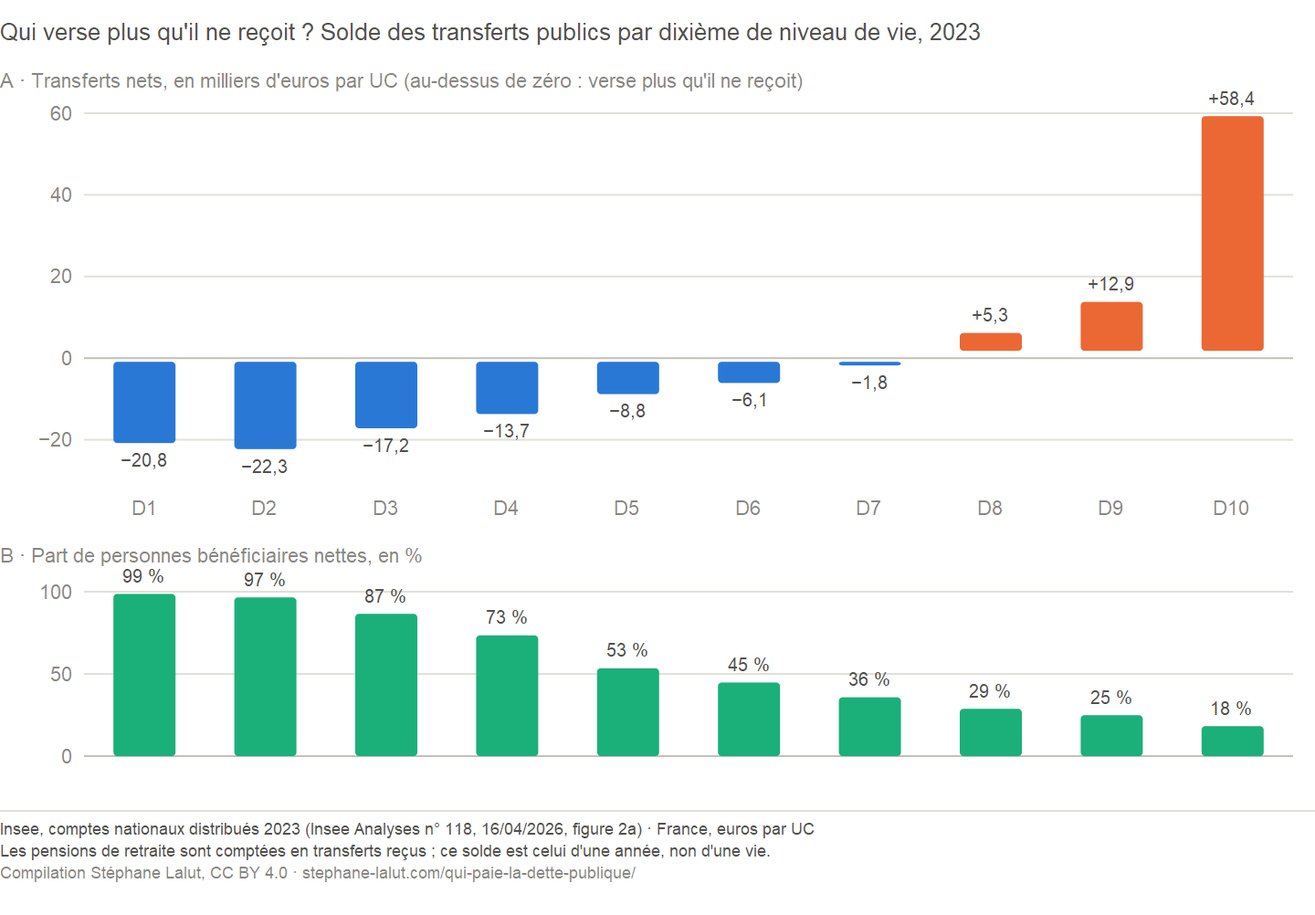
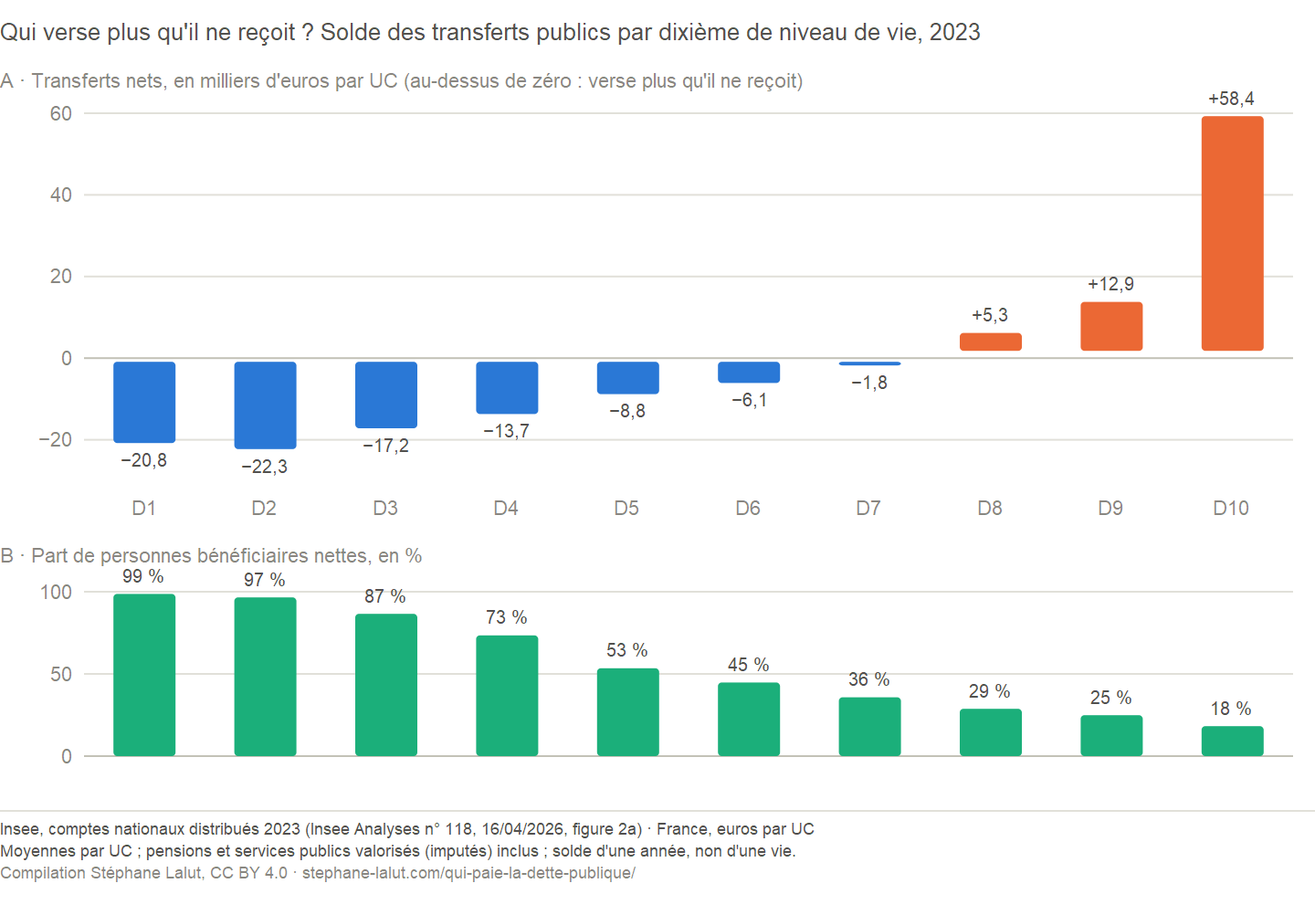
fix(qui-paie): moyennes et personnes distinguées, mécanismes non exhaustifs, figure par âge déplacée
Contre-expertise des figures du 27/09 (arbitrage PRO-20260927-QUIPAIE-FIGURES, option B,
corrections locales) :
- Solde net : « en moyenne par UC » dans le texte, l'image, la carte et le texte
  alternatif ; contraste tiré des données — bénéficiaires nets majoritaires dans les 5
  premiers dixièmes seulement, 36 % dans le D7 pourtant bénéficiaire en moyenne ;
  conventions dites (services imputés, pensions, revenu avant transferts).
  Garde au générateur : si le contraste disparaît des données, arrêt (vue mordre).
- « Quatre voies » -> quatre mécanismes, non exhaustifs ; nœud du schéma « Charge de la
  dette et sa répartition » ; inflation conditionnelle ; rendement réel distingué de
  l'avantage sur un autre placement ; définition du coût supporté ; croissance nominale
  et taux apparent ; « par UC ».
- Figure par âge déplacée parmi les constats actuels, avec ses conventions.

Build sans avertissement ; check-all --reseau à 0 ; figures regardées.

Changed region(s): [[0.0, 0.9281, 0.5938, 0.9591]]

diff --git a/scripts/generer_figures_qui_paie.py b/scripts/generer_figures_qui_paie.py
@@ -381,7 +381,7 @@ def svg_solde_net(d: dict) -> tuple[str, int]:
     y = bas2 + 30
     h = int(y + 13 + 12 * 3 + 8)
     desc = ("Deux panneaux. A : transferts nets par dixième de niveau de vie, en milliers d'euros "
-            "par unité de consommation ; les sept premiers dixièmes reçoivent plus qu'ils ne "
+            "par unité de consommation ; en moyenne, les sept premiers dixièmes reçoivent plus qu'ils ne "
             "versent, les trois derniers versent plus qu'ils ne reçoivent, le dernier de %s. "
             "B : part de personnes bénéficiaires nettes, de %s %% dans le premier dixième à "
             "%s %% dans le dernier." % (fr(net[9], 1), fr(part[0]), fr(part[9])))
@@ -389,7 +389,7 @@ def svg_solde_net(d: dict) -> tuple[str, int]:
     e += cartouche(y, [
         ("Insee, comptes nationaux distribués 2023 (Insee Analyses n° 118, 16/04/2026, figure 2a) "
          "· France, euros par UC", INK2),
-        ("Les pensions de retraite sont comptées en transferts reçus ; ce solde est celui d'une "
+        ("Moyennes par UC ; pensions et services publics valorisés (imputés) inclus ; solde d'une "
          "année, non d'une vie.", INK2),
         ("Compilation Stéphane Lalut, CC BY 4.0 · " + URL_PAGE, MUTED)])
     e.append("</svg>")
@@ -443,7 +443,7 @@ def svg_age(d: dict) -> tuple[str, int]:
     h = int(y + 13 + 12 * 3 + 8)
     desc = ("Barres par groupe d'âge du ménage, en 2023, en milliers d'euros par unité de "
             "consommation. Les transferts reçus passent de %s pour les 18-29 ans à %s pour les "
-            "65 ans ou plus, tandis que les prélèvements passent de %s à %s."
+            "ménages dont l'âge moyen des adultes atteint 65 ans ou plus, tandis que les prélèvements passent de %s à %s."
             % (fr(esp[0] + nat[0], 1), fr(esp[4] + nat[4], 1), fr(-prel[0], 1), fr(-prel[4], 1)))
     e = entete(h, "qp-age", "Prélèvements et transferts publics par âge du ménage, 2023", desc) + c
     e += cartouche(y, [
@@ -475,9 +475,9 @@ def svg_mecanismes() -> tuple[str, int]:
     c.append('<defs><marker id="qp-fl" viewBox="0 0 10 10" refX="9" refY="5" markerWidth="7" '
              'markerHeight="7" orient="auto"><path d="M0,0 L10,5 L0,10 z" fill="%s"/></marker>'
              '</defs>' % MUTED)
-    c += boite(1, 150, 200, 74, [("Service de la dette", 12, INK, True),
-                                 ("intérêts, et titres qui", 11, INK2, False),
-                                 ("arrivent à échéance", 11, INK2, False)], trait=C1)
+    c += boite(1, 150, 200, 74, [("Charge de la dette", 12, INK, True),
+                                 ("et sa répartition", 12, INK, True),
+                                 ("intérêts, échéances", 11, INK2, False)], trait=C1)
     canaux = [
         ("Prélèvements", "contribuables : impôts, cotisations"),
         ("Dépenses et prestations", "usagers, bénéficiaires : réduites, gelées, reportées"),
@@ -499,7 +499,7 @@ def svg_mecanismes() -> tuple[str, int]:
                tiret=True, fond="#f7f7f4")
     y = 392
     h = int(y + 13 + 12 * 3 + 8)
-    desc = ("Schéma sans quantités. Le service de la dette peut être assuré par quatre canaux, qui "
+    desc = ("Schéma sans quantités. Quatre mécanismes, non exhaustifs, peuvent modifier la charge de la dette et sa répartition, et "
             "se combinent : prélèvements (contribuables), dépenses et prestations (usagers, "
             "bénéficiaires), inflation (détenteurs de créances et de revenus mal indexés), "
             "restructuration, cas extrême (porteurs des titres). Le refinancement reporte "
@@ -540,6 +540,13 @@ def affichage(r: dict, d: dict) -> dict:
         fail("solde net : la bascule contributeur/bénéficiaire n'est pas unique (%s)" % net)
     if not part[0] > part[-1]:
         fail("la page dit que la part de bénéficiaires nets décroît avec le niveau de vie")
+    # Contraste moyenne / personnes (contre-expertise du 27/09) : un dixième peut être
+    # bénéficiaire net EN MOYENNE alors que la majorité de ses membres sont contributeurs
+    # nets. La page l'énonce ; il doit rester vrai dans les données, sinon arrêt.
+    majo = next((i for i, v in enumerate(part) if v <= 50), len(part))
+    if not majo < bascule:
+        fail("la page dit que la majorité de bénéficiaires nets s'arrête avant la bascule "
+             "du solde moyen (majorité jusqu'à D%d, bascule en D%d)" % (majo, bascule + 1))
     age = d["age"]
     if not (age["esp"][4] > age["esp"][0] and -age["prel"][4] < -age["prel"][0]):
         fail("la page dit que les 65 ans ou plus reçoivent plus et versent moins que les 18-29 ans")
@@ -550,6 +557,8 @@ def affichage(r: dict, d: dict) -> dict:
         "net_d10": fr(net[9]),
         "net_d1": fr(-net[0]),
         "benef_d1": fr(part[0]), "benef_d10": fr(part[9]),
+        "benef_majo_n": fr(majo),
+        "benef_dernier_moyen": "D%d" % bascule, "benef_dernier_moyen_pct": fr(part[bascule - 1]),
         "benef_ensemble": fr(d["part_benef"][-1]),
         "age_recu_65": fr(age["esp"][4] + age["nat"][4]),
         "age_prel_65": fr(-age["prel"][4]),
@@ -603,21 +612,21 @@ def main() -> int:
                        "spécifique de la dette."},
         {"id": "solde-net", "fichier": "qui-paie-solde-net",
          "titre": "Contributeurs nets et bénéficiaires nets par dixième, 2023",
-         "montre": "Les sept premiers dixièmes reçoivent plus qu'ils ne versent, les trois "
-                   "derniers l'inverse ; la part de bénéficiaires nets décroît avec le niveau de vie.",
+         "montre": "En moyenne par UC, les dixièmes modestes et médians reçoivent plus qu'ils ne versent, "
+                   "les plus aisés l'inverse ; mais dès le milieu de l'échelle, la majorité des personnes versent plus qu'elles ne reçoivent.",
          "source": "Insee, comptes nationaux distribués 2023 (Insee Analyses n° 118, figure 2a)",
-         "precaution": "Solde d'une année, non d'une vie ; les pensions de retraite y sont "
-                       "comptées en transferts reçus."},
+         "precaution": "Moyennes par UC ; pensions et services publics valorisés par imputation inclus ; "
+                       "solde d'une année, non d'une vie ; ne mesure pas l'effet propre de la dette."},
         {"id": "age", "fichier": "qui-paie-age",
          "titre": "Prélèvements et transferts publics par âge du ménage, 2023",
-         "montre": "La répartition par âge telle qu'elle est mesurée aujourd'hui : ce que chaque "
-                   "groupe verse et reçoit, retraites et services publics compris.",
+         "montre": "En 2023, selon ces conventions : ce que verse et reçoit chaque groupe, classé par "
+                   "âge moyen des adultes du ménage, retraites et services publics compris.",
          "source": "Insee, comptes nationaux distribués 2023 (Insee Analyses n° 118, figure 1e)",
-         "precaution": "Photographie d'une année : elle ne dit rien du solde d'une génération "
-                       "sur sa vie entière, ni des payeurs futurs."},
+         "precaution": "Photographie d'une année, non le bilan d'une génération ni des générations futures ; "
+                       "l'âge du ménage n'est pas le statut de retraite de ses membres."},
         {"id": "mecanismes", "fichier": "qui-paie-mecanismes",
          "titre": "Par quels canaux la charge peut-elle être répartie ?",
-         "montre": "Quatre canaux possibles, le refinancement qui reporte sans désigner de "
+         "montre": "Quatre mécanismes possibles, non exhaustifs, le refinancement qui reporte sans désigner de "
                    "perdant, et en regard ce que la dette a financé.",
          "source": "Synthèse de l'auteur, schéma non quantitatif",
          "precaution": "Aucun poids relatif ni effet causal n'est mesuré ici."},

diff --git a/content/qui-paie-la-dette-publique/_index.md b/content/qui-paie-la-dette-publique/_index.md
@@ -36,7 +36,7 @@ Cette page examine ces configurations une à une&nbsp;: ce qui les rend plausibl
 
 ## Quatre rôles à ne pas confondre
 
-Le débat mélange souvent quatre rôles. L'**emprunteur** est l'administration qui émet la dette — l'État d'abord, puis la sécurité sociale et les collectivités. Le **créancier** avance les fonds et reçoit des intérêts en retour. Le **bénéficiaire** profite de ce que l'emprunt a financé&nbsp;: une route, une école, un revenu de soutien pendant une crise. Celui qui **supporte le coût** est celui dont l'effort sert la dette&nbsp;: le contribuable qui paie un impôt supplémentaire, l'usager d'un service dont les moyens se resserrent, l'épargnant dont l'inflation érode le placement.
+Le débat mélange souvent quatre rôles. L'**emprunteur** est l'administration qui émet la dette — l'État d'abord, puis la sécurité sociale et les collectivités. Le **créancier** avance les fonds et reçoit des intérêts en retour. Le **bénéficiaire** profite de ce que l'emprunt a financé&nbsp;: une route, une école, un revenu de soutien pendant une crise. Celui qui **supporte un coût** subit, par rapport à l'alternative considérée, une perte de revenu, de patrimoine ou de services liée aux choix de financement ou d'ajustement&nbsp;: le contribuable qui paie un impôt supplémentaire, l'usager d'un service dont les moyens se resserrent, l'épargnant dont l'inflation érode le placement.
 
 Une même personne tient souvent plusieurs de ces rôles&nbsp;: elle paie l'impôt, se soigne à l'hôpital public et détient des titres de l'État par son assurance-vie. Les groupes examinés plus bas se recoupent donc&nbsp;; ils ne se partagent pas la dette comme les parts d'un gâteau.
 
@@ -55,48 +55,51 @@ Trois choses se mesurent&nbsp;: qui emprunte, qui détient les titres, et qui co
 {{< fig-actions id="redistribution" >}}
 {{< qp-tableau-redistribution >}}
 
-**Qui contribue, qui reçoit aujourd'hui.** Les comptes nationaux distribués de l'Insee répartissent, pour {{< qp-val "cd_annee" >}}, prélèvements et transferts publics entre les dixièmes de niveau de vie. Les prélèvements vont de {{< qp-val "d1_prel" >}}&nbsp;€ par unité de consommation pour les 10&nbsp;% les plus modestes à {{< qp-val "d10_prel" >}}&nbsp;€ pour les 10&nbsp;% les plus aisés, environ {{< qp-val "ratio_prel" >}}&nbsp;fois plus&nbsp;; les transferts reçus — prestations en espèces et services publics valorisés en euros — varient beaucoup moins, de {{< qp-val "recu_min" >}} à {{< qp-val "recu_max" >}}&nbsp;€. La même année, la puissance publique a versé plus qu'elle n'a prélevé&nbsp;: {{< qp-val "solde_uc" >}}&nbsp;€ par unité de consommation en moyenne, {{< qp-val "solde_mdeur" >}}&nbsp;milliards au total, financés par endettement. C'est un bénéfice présent financé à crédit, que l'Insee répartit par convention — moitié en moindres prélèvements, moitié en transferts supplémentaires. Ces comptes décrivent qui contribue et qui reçoit aujourd'hui&nbsp;; ils ne disent pas qui paiera demain la dette qui finance l'écart.
+**Qui contribue, qui reçoit aujourd'hui.** Les comptes nationaux distribués de l'Insee répartissent, pour {{< qp-val "cd_annee" >}}, prélèvements et transferts publics entre les dixièmes de niveau de vie. Les prélèvements vont de {{< qp-val "d1_prel" >}}&nbsp;€ par unité de consommation pour les 10&nbsp;% les plus modestes à {{< qp-val "d10_prel" >}}&nbsp;€ pour les 10&nbsp;% les plus aisés, environ {{< qp-val "ratio_prel" >}}&nbsp;fois plus&nbsp;; les transferts reçus — prestations en espèces et services publics valorisés en euros — varient beaucoup moins, de {{< qp-val "recu_min" >}} à {{< qp-val "recu_max" >}}&nbsp;€. La même année, la puissance publique a versé plus qu'elle n'a prélevé&nbsp;: {{< qp-val "solde_uc" >}}&nbsp;€ par unité de consommation en moyenne, {{< qp-val "solde_mdeur" >}}&nbsp;milliards au total sur le champ de ces comptes distribués, qui n'est pas celui du déficit public, financés par endettement. C'est un bénéfice présent financé à crédit. Pour calculer un niveau de vie «&nbsp;net de l'endettement&nbsp;», l'Insee le répartit par convention — moitié en moindres prélèvements, moitié en transferts supplémentaires&nbsp;; les figures ci-dessous présentent les transferts courants, avant ce retraitement. Ces comptes décrivent qui contribue et qui reçoit aujourd'hui&nbsp;; ils ne disent pas qui paiera demain la dette qui finance l'écart.
 
-{{< figure-svg fichier="qui-paie-solde-net" alt="Deux panneaux. En haut, le solde des transferts publics par dixième de niveau de vie : négatif pour les sept premiers dixièmes, positif pour les trois derniers, très fortement pour le dernier. En bas, la part de personnes bénéficiaires nettes, décroissante du premier au dernier dixième." >}}Insee, comptes nationaux distribués 2023 (figure&nbsp;2a). Deux unités, deux panneaux&nbsp;: euros par unité de consommation, puis part de personnes.{{< /figure-svg >}}
+{{< figure-svg fichier="qui-paie-solde-net" alt="Deux panneaux. En haut, le solde des transferts publics par dixième de niveau de vie : en moyenne par unité de consommation, négatif pour les sept premiers dixièmes, positif pour les trois derniers, très fortement pour le dernier. En bas, la part de personnes bénéficiaires nettes, décroissante du premier au dernier dixième." >}}Insee, comptes nationaux distribués 2023 (figure&nbsp;2a). Deux unités, deux panneaux&nbsp;: euros par unité de consommation, puis part de personnes.{{< /figure-svg >}}
 {{< fig-actions id="solde-net" >}}
 
-**Qui verse net, qui reçoit net.** Le solde bascule au dixième {{< qp-val "net_bascule" >}}&nbsp;: les {{< qp-val "net_benef_n" >}} premiers dixièmes reçoivent plus qu'ils ne versent — {{< qp-val "net_d1" >}}&nbsp;€ par unité de consommation pour le premier —, les trois derniers versent plus qu'ils ne reçoivent, et le dernier {{< qp-val "net_d10" >}}&nbsp;€ à lui seul. Rapporté aux personnes, {{< qp-val "benef_ensemble" >}}&nbsp;% sont bénéficiaires nettes cette année-là&nbsp;: {{< qp-val "benef_d1" >}}&nbsp;% dans le premier dixième, {{< qp-val "benef_d10" >}}&nbsp;% dans le dernier. Deux précautions tiennent toute la lecture&nbsp;: c'est le solde d'une **année**, non d'une vie — les pensions de retraite y sont comptées en transferts reçus, et non en revenu différé de cotisations passées —, et il décrit la redistribution dans son ensemble, pas l'effet propre de la dette.
+**Qui verse net, qui reçoit net.** En moyenne par unité de consommation (UC, l'unité qui rend comparables des ménages de tailles différentes), le solde bascule au dixième {{< qp-val "net_bascule" >}}&nbsp;: dans chacun des {{< qp-val "net_benef_n" >}} premiers dixièmes, les transferts reçus dépassent les prélèvements — de {{< qp-val "net_d1" >}}&nbsp;€ par UC dans le premier —, dans les trois derniers c'est l'inverse, et dans le dernier dixième le prélèvement net moyen atteint {{< qp-val "net_d10" >}}&nbsp;€ par UC.
 
-## Par quels canaux la charge se répartit
+Rapporté aux personnes, le tableau change. {{< qp-val "benef_ensemble" >}}&nbsp;% sont bénéficiaires nettes cette année-là, {{< qp-val "benef_d1" >}}&nbsp;% dans le premier dixième et {{< qp-val "benef_d10" >}}&nbsp;% dans le dernier. Mais les bénéficiaires nets ne sont majoritaires que dans les {{< qp-val "benef_majo_n" >}} premiers dixièmes&nbsp;: dans le dixième {{< qp-val "benef_dernier_moyen" >}}, bénéficiaire net en moyenne, ils ne sont plus que {{< qp-val "benef_dernier_moyen_pct" >}}&nbsp;%. **Un groupe peut recevoir plus qu'il ne verse en moyenne alors que la majorité de ses membres versent plus qu'ils ne reçoivent**&nbsp;: quelques soldes très positifs suffisent à porter la moyenne.
 
-Une dette se sert par quatre voies, qui se combinent&nbsp;:
-
-- **les prélèvements** — impôts et cotisations supplémentaires, ou baisses d'impôt auxquelles on renonce&nbsp;;
-- **les dépenses et les prestations** — ce qui est réduit, gelé ou reporté pour dégager la marge&nbsp;;
-- **l'inflation**, qui allège le poids réel de la dette et en reporte une partie sur les détenteurs de créances et de revenus mal indexés, selon leurs contrats&nbsp;;
-- **la restructuration**, cas extrême où la perte revient aux porteurs des titres.
-
-Le refinancement, lui, reporte une échéance&nbsp;; il ne désigne à lui seul aucun perdant. Et en face de ces coûts se trouve ce que la dette a financé&nbsp;: les bénéfices, présents et futurs, de la dépense publique entrent dans le bilan au même titre que la charge.
-
-{{< figure-svg fichier="qui-paie-mecanismes" alt="Schéma sans quantités : le service de la dette mène, par des flèches d'égale épaisseur, à quatre canaux possibles — prélèvements, dépenses et prestations, inflation, restructuration — ; le refinancement reporte l'échéance ; en regard, ce que la dette a financé." >}}Schéma de mécanismes possibles&nbsp;: aucun poids relatif ni effet causal n'y est mesuré.{{< /figure-svg >}}
-{{< fig-actions id="mecanismes" >}}
-
-## Les générations futures — ce dont elles héritent
-
-La dette convertit une dépense présente en engagements futurs, et ceux qui les honoreront n'ont pas voté l'emprunt. Mais ils héritent aussi de ce qu'il a financé — infrastructures, formation, recherche, patrimoine public — et d'une partie des titres eux-mêmes, que leurs parents détiennent directement ou par l'assurance-vie. Le transfert net dépend donc de l'usage&nbsp;: une dette qui finance une consommation courante sans contrepartie durable leur transmet surtout un coût&nbsp;; un investissement dont ils profiteront peut leur transmettre davantage qu'il ne coûte.
-
-L'encours ne suffit pas à trancher, et la dette nette ne le fait pas davantage&nbsp;: celle que publie l'INSEE ne déduit que certains actifs financiers — trésorerie, prêts, titres —, pas les routes, le capital humain ni l'environnement. Ce qui vaut quel que soit l'usage, c'est que la décision se prend sans ceux qui en porteront une part. L'objection «&nbsp;on se la doit à nous-mêmes&nbsp;» et sa réponse sont développées sur la page [La dette publique est-elle un fardeau pour les générations futures&nbsp;?](/dette-publique-generations-futures/)
-
+Plusieurs conventions encadrent cette lecture. C'est le solde d'une **année**, non d'une vie&nbsp;: les pensions de retraite y sont comptées comme prestations courantes. Les transferts comprennent des services publics — soins, éducation, services collectifs — valorisés en euros et répartis par imputation statistique, non un relevé des services utilisés par chacun&nbsp;; la part de bénéficiaires nets en dépend à la marge. Le revenu «&nbsp;avant transferts&nbsp;» est une étape de calcul, non le revenu qu'aurait chacun dans une économie sans impôts ni services publics. Et ce solde décrit la redistribution dans son ensemble, pas l'effet propre de la dette.
 
 {{< figure-svg fichier="qui-paie-age" alt="Barres par groupe d'âge du ménage, en 2023 : les transferts reçus augmentent fortement avec l'âge, et les prélèvements versés diminuent après 65 ans." >}}Insee, comptes nationaux distribués 2023 (figure&nbsp;1e). Groupes d'âge moyen des adultes du ménage.{{< /figure-svg >}}
 {{< fig-actions id="age" >}}
 
-Ce que la répartition par âge montre aujourd'hui, elle le montre sans ambiguïté&nbsp;: les ménages de 65&nbsp;ans ou plus reçoivent {{< qp-val "age_recu_65" >}}&nbsp;€ par unité de consommation de transferts — dont {{< qp-val "age_esp_65" >}}&nbsp;€ de prestations en espèces, pensions comprises — et versent {{< qp-val "age_prel_65" >}}&nbsp;€ de prélèvements, contre {{< qp-val "age_prel_5064" >}}&nbsp;€ pour les ménages de 50 à 64&nbsp;ans. Deux limites l'encadrent. La convention compte les pensions comme des transferts reçus, alors qu'elles rémunèrent des cotisations versées plus tôt&nbsp;: le tableau d'une vie entière ne ressemblerait pas à celui d'une année. Et cette photographie ne désigne aucun payeur futur&nbsp;: elle montre le partage tel qu'il est aujourd'hui, pas celui que la dette organisera demain.
+**Par âge.** En {{< qp-val "cd_annee" >}}, selon ces conventions, les ménages dont l'âge moyen des adultes atteint 65&nbsp;ans ou plus reçoivent {{< qp-val "age_recu_65" >}}&nbsp;€ par unité de consommation de transferts — dont {{< qp-val "age_esp_65" >}}&nbsp;€ de prestations en espèces, pensions comprises — et versent {{< qp-val "age_prel_65" >}}&nbsp;€ de prélèvements, contre {{< qp-val "age_prel_5064" >}}&nbsp;€ pour les ménages de 50 à 64&nbsp;ans. Trois limites l'encadrent. Les pensions correspondent notamment à des droits acquis au cours de la carrière&nbsp;; elles sont ici comptées comme prestations courantes, et le tableau d'une vie entière ne ressemblerait pas à celui d'une année. L'âge du ménage n'est pas le statut de retraite de chacun de ses membres, et un montant élevé de soins imputés traduit aussi des besoins plus élevés, non un avantage de bien-être. Enfin, cette photographie actuelle n'est pas une mesure du bilan des générations futures&nbsp;: elle ne désigne aucun payeur de demain.
+
+## Par quels canaux la charge se répartit
+
+Quatre mécanismes peuvent modifier la charge de la dette et sa répartition, et ils se combinent&nbsp;:
+
+- **les prélèvements** — impôts et cotisations supplémentaires, ou baisses d'impôt auxquelles on renonce&nbsp;;
+- **les dépenses et les prestations** — ce qui est réduit, gelé ou reporté pour dégager la marge&nbsp;;
+- **l'inflation**, qui peut réduire la valeur réelle des créances nominales non indexées et reporter une partie de la charge sur les détenteurs de créances et de revenus mal indexés&nbsp;; l'effet total dépend des contrats, des titres indexés et du refinancement, et la France ne choisit pas seule son inflation&nbsp;;
+- **la restructuration**, cas extrême où la perte revient aux porteurs des titres.
+
+La liste n'est pas exhaustive&nbsp;: la croissance, les revenus ou cessions d'actifs et les conditions de financement interviennent aussi — une cession finance un paiement en réduisant un patrimoine, la croissance améliore le ratio sans prélever sur un groupe —, et l'histoire connaît la répression financière, qui contraint les rendements. Le refinancement, lui, reporte une échéance&nbsp;; il ne désigne à lui seul aucun perdant. Et en face de ces coûts se trouve ce que la dette a financé&nbsp;: les bénéfices, présents et futurs, de la dépense publique entrent dans le bilan au même titre que la charge.
+
+{{< figure-svg fichier="qui-paie-mecanismes" alt="Schéma sans quantités : la charge de la dette et sa répartition mènent, par des flèches d'égale épaisseur, à quatre mécanismes possibles — prélèvements, dépenses et prestations, inflation, restructuration — ; le refinancement reporte l'échéance ; en regard, ce que la dette a financé." >}}Schéma de mécanismes possibles&nbsp;: aucun poids relatif ni effet causal n'y est mesuré.{{< /figure-svg >}}
+{{< fig-actions id="mecanismes" >}}
+
+## Les générations futures — ce dont elles héritent
+
+La dette convertit une dépense présente en engagements futurs, dont une partie peut concerner des personnes qui ne participent pas à la décision, notamment les générations à venir. Mais ils héritent aussi de ce qu'il a financé — infrastructures, formation, recherche, patrimoine public — et d'une partie des titres eux-mêmes, que leurs parents détiennent directement ou par l'assurance-vie. Le transfert net dépend donc de l'usage, mais pas de lui seul&nbsp;: l'absence de bénéfice durable entre dans le bilan, et le coût net dépend aussi du financement, des créances transmises et de l'alternative retenue&nbsp;; un investissement dont ils profiteront peut leur transmettre davantage qu'il ne coûte.
+
+L'encours ne suffit pas à trancher, et la dette nette ne le fait pas davantage&nbsp;: celle que publie l'INSEE ne déduit que certains actifs financiers — trésorerie, prêts, titres —, pas les routes, le capital humain ni l'environnement. Ce qui vaut quel que soit l'usage, c'est que la décision se prend sans ceux qui en porteront une part. L'objection «&nbsp;on se la doit à nous-mêmes&nbsp;» et sa réponse sont développées sur la page [La dette publique est-elle un fardeau pour les générations futures&nbsp;?](/dette-publique-generations-futures/)
 
 ## Les groupes moins mobiles — une hypothèse à tester
 
-Tous les contribuables ne sont pas égaux devant l'ajustement. Les ménages et les entreprises qui peuvent déplacer leurs revenus, leur patrimoine ou leur activité échappent plus facilement à un prélèvement que les salariés, les retraités ou les usagers qui dépendent d'un service public local. D'où l'hypothèse&nbsp;: quand l'ajustement suit la ligne de moindre résistance, il **peut** peser davantage sur ceux qui ne peuvent pas partir.
+Tous les contribuables ne sont pas égaux devant l'ajustement. Les ménages et les entreprises qui peuvent déplacer leurs revenus, leur patrimoine ou leur activité échappent plus facilement à un prélèvement que les salariés, les retraités ou les usagers qui dépendent d'un service public local. D'où l'hypothèse&nbsp;: quand l'ajustement suit la ligne de moindre résistance, il **peut** peser davantage sur ceux qui ne peuvent pas partir. Pour être testable, elle doit fixer ses mesures avant d'observer l'ajustement&nbsp;: à ajustement donné et situations initiales comparables, une moindre capacité d'évitement devrait aller avec un effort plus élevé. Et la capacité d'évitement n'est pas une variable unique&nbsp;: mobilité géographique, mobilité de la base imposable et capacité à remplacer un service public sont trois propriétés différentes.
 
 Pour la tester, il faut définir ces groupes indépendamment du résultat, préciser l'ajustement étudié — telle réforme fiscale, tel gel de prestations — et choisir une mesure de l'effort. Elle serait affaiblie par un ajustement portant surtout sur d'autres groupes, ou par des compensations accordées aux perdants identifiés&nbsp;; ces cas ne se relisent pas après coup comme des confirmations. Le canal territorial — l'État qui reporte une part de sa contrainte sur les collectivités — est examiné sur la page [Dette publique&nbsp;: pourquoi les collectivités locales sont-elles la variable d'ajustement&nbsp;?](/dette-publique-collectivites-locales/)
 
 ## Les créanciers — financer n'est pas gagner
 
-«&nbsp;Qui détient la dette&nbsp;?&nbsp;» est la question la plus posée, et elle ne dit pas qui paie. Le créancier a avancé les fonds&nbsp;: les intérêts rémunèrent cette avance, le temps et le risque. Son **gain net** est une autre grandeur — ce qui reste une fois déduits l'inflation et ce que ce capital aurait rapporté ailleurs — et il varie selon la date d'achat et le type de titre. La détention renseigne sur la destination des intérêts, pas sur ceux qui les financent.
+«&nbsp;Qui détient la dette&nbsp;?&nbsp;» est la question la plus posée, et elle ne dit pas qui paie. Le créancier a avancé les fonds&nbsp;: les intérêts rémunèrent cette avance, le temps et le risque. Son **rendement réel** tient compte des intérêts, de la variation de valeur du titre et de l'inflation&nbsp;; son **avantage par rapport à un autre placement** se mesure séparément, à horizon et risque comparables. Les deux varient selon la date d'achat et le type de titre. La détention renseigne sur la destination des intérêts, pas sur ceux qui les financent.
 
 Pour les titres négociables de l'État, la répartition des porteurs est publiée par la Banque de France, via l'Agence France Trésor, en valeur de marché. Elle classe les porteurs par **résidence**, non par nationalité&nbsp;: un «&nbsp;non-résident&nbsp;» peut être un fonds étranger qui gère l'épargne de ménages français, et un ménage français peut détenir des titres de l'État sans le savoir, par son assurance-vie. Une part du stock détenue hors de France ne mesure pas non plus la part des intérêts versés hors de France&nbsp;: une photographie de fin de période ne donne pas un flux annuel.
 
@@ -109,11 +112,11 @@ Un budget contraint par le service de la dette peut reporter les dépenses dont 
 - **La dette finance aussi des bénéfices présents.** Services, prestations et investissements financés à crédit profitent à des ménages aujourd'hui&nbsp;; une analyse qui ne compte que les coûts ne décrit que la moitié du bilan.
 - **On se la doit en partie à nous-mêmes.** Une part des titres est détenue, directement ou non, par des ménages résidents&nbsp;: les intérêts qu'ils reçoivent sont aussi un revenu. Reste à savoir qui, parmi les résidents, reçoit ces intérêts et qui les finance.
 - **Moins emprunter aurait aussi coûté.** Un impôt plus lourd ou une dépense abandonnée plus tôt auraient eu leurs propres perdants&nbsp;; la comparaison honnête porte sur ces alternatives, pas sur un monde sans coût.
-- **Tant que la croissance dépasse le taux d'intérêt, la dette peut se stabiliser.** L'argument est sérieux et il a souvent été vrai&nbsp;: sous cette condition, le ratio de dette peut rester stable même avec un déficit hors intérêts, pourvu que ce déficit primaire reste sous un seuil qui dépend de l'écart entre les deux taux et du niveau de la dette. Au-delà, le ratio monte malgré tout. Et même stable, une dette se sert chaque année&nbsp;: la question de la répartition demeure.
+- **Tant que la croissance nominale dépasse le taux d'intérêt apparent, le ratio de dette peut se stabiliser.** L'argument est sérieux et il a souvent été vrai&nbsp;: sous cette condition, le ratio de dette peut rester stable même avec un déficit hors intérêts, pourvu que ce déficit primaire reste sous un seuil qui dépend de l'écart entre les deux taux et du niveau de la dette. Au-delà, le ratio monte malgré tout. Et même stable, une dette se sert chaque année&nbsp;: la question de la répartition demeure.
 
 ## Ce que ces données ne permettent pas d'établir
 
-Aucune statistique ne dit, à elle seule, qui supporte au bout du compte la charge de la dette française&nbsp;: l'incidence finale d'un euro d'intérêts dépend des ajustements choisis année après année, et de l'alternative à laquelle on les compare. Une répartition actuelle des impôts et des prestations décrit qui contribue et qui reçoit aujourd'hui&nbsp;; elle n'identifie pas les payeurs futurs de la dette. Une moyenne par ménage n'est pas une facture individuelle&nbsp;: elle est compatible avec une dispersion considérable, et une personne qui reçoit beaucoup de prestations peut perdre à une réforme précise.
+Aucune statistique ne dit, à elle seule, qui supporte au bout du compte la charge de la dette française&nbsp;: l'incidence finale d'un euro d'intérêts dépend des ajustements choisis année après année, et de l'alternative à laquelle on les compare. Une répartition actuelle des impôts et des prestations décrit qui contribue et qui reçoit aujourd'hui&nbsp;; elle n'identifie pas les payeurs futurs de la dette. Une moyenne par unité de consommation n'est pas une facture individuelle&nbsp;: elle est compatible avec une dispersion considérable, et une personne qui reçoit beaucoup de prestations peut perdre à une réforme précise.
 
 Ce qui peut s'établir, c'est l'effet d'une décision déterminée — une réforme, un gel, un report — sur des groupes définis d'avance. C'est à ce niveau que la question «&nbsp;qui paie&nbsp;?&nbsp;» reçoit des réponses vérifiables.
 

diff --git a/PROJECT_STATUS.md b/PROJECT_STATUS.md
@@ -53,6 +53,19 @@ complète fonctionne sans attendre le prochain push naturel ou le 1er du mois.
 
 ## 0. Log chronologique
 
+### 2026-09-28 — « Qui paie » : contre-expertise des figures arbitrée, corrections locales appliquées
+
+Arbitrage : `D:\PRO\.claude\external-audits\ARBITRATIONS\PRO-20260927-QUIPAIE-FIGURES_arbitrage.md` (option B).
+- Solde net : « en moyenne par UC » partout (page, image, carte, texte alternatif) ; contraste moyenne / personnes
+  tiré des données (`benef_majo_n`, `benef_dernier_moyen`, `benef_dernier_moyen_pct`) ; conventions dites
+  (services imputés, pensions, revenu « avant transferts »). **Garde** dans `generer_figures_qui_paie.py` : si le
+  contraste disparaît des données, la génération s'arrête — vue mordre par mutation.
+- « Quatre voies » → quatre mécanismes non exhaustifs ; nœud du schéma renommé ; inflation conditionnelle ;
+  rendement réel ≠ avantage par rapport à un autre placement ; définition du coût supporté ; « n'ont pas voté » ;
+  croissance nominale / taux apparent ; « par UC ».
+- Figure par âge déplacée parmi les constats actuels, avec ses conventions.
+- Reste ouvert (non bloquant) : libellés institutionnels du panneau A de la figure de détention.
+
 ### 2026-09-28 — Rubrique « Ressources » : livraison 1 (accès) PRÊTE, non commitée, non poussée
 
 Arbitrage : `D:\PRO\.claude\external-audits\ARBITRATIONS\PRO-20260921-105434_arbitrage_2026-09-28.md`
